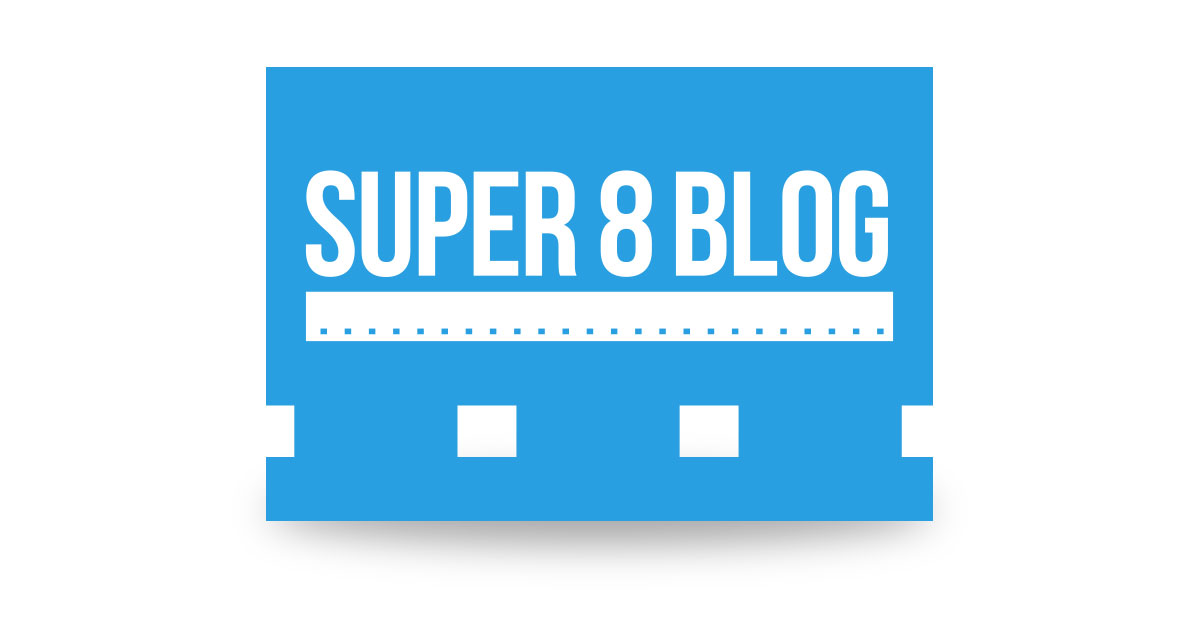
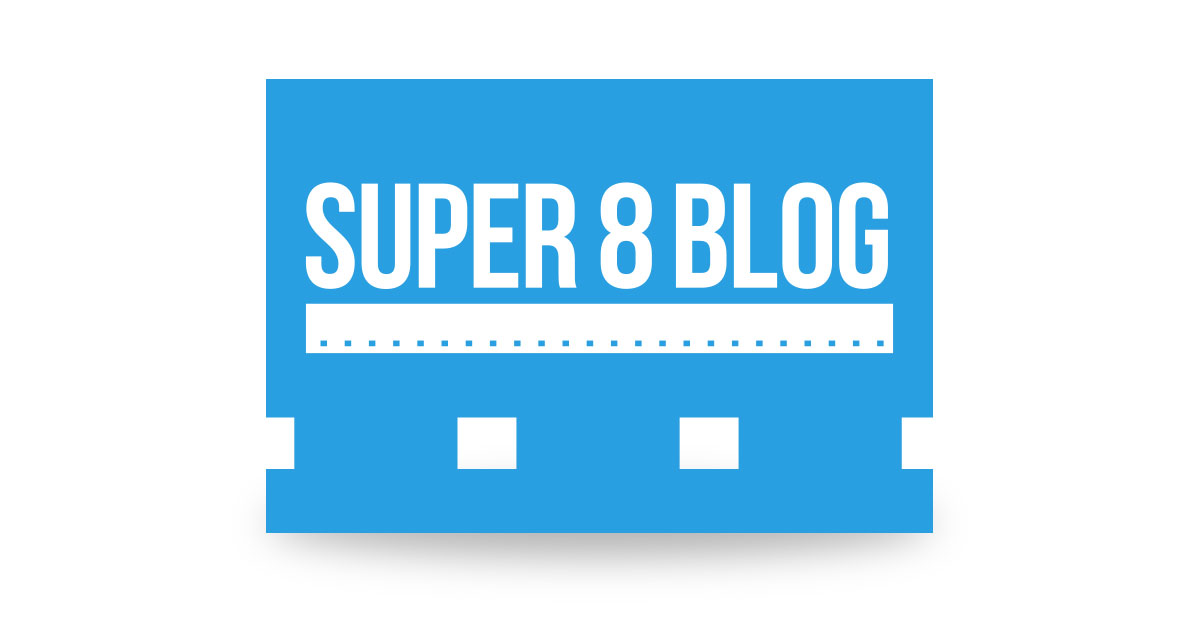
Shared target window size for all share buttons. Tweaked site image.

diff --git a/index.html b/index.html
@@ -14,18 +14,50 @@ title: Home
     <div class="dateline">
       <span class="post-date">{{ post.date | date_to_string }}</span>
       <div class="social">
-        <a class="facebook" href="https://facebook.com/sharer.php?u={{ site.url }}{{ post.url }}" rel="nofollow" target="_blank" title="Share on Facebook">SHARE</a>
+        <a class="facebook" href="https://facebook.com/sharer.php?u={{ site.url }}{{ post.url }}" rel="nofollow" target="_blank" title="Share on Facebook" onclick="window.open(this.href,'targetWindow',
+                                   'toolbar=no,
+                                    location=no,
+                                    status=no,
+                                    menubar=no,
+                                    scrollbars=yes,
+                                    resizable=yes,
+                                    width=600,
+                                    height=400');">SHARE</a>
         /
-        <a class="twitter" href="https://twitter.com/intent/tweet?text={{ post.description }}&url={{ site.url }}{{ post.url }}&via={{ site.twitter_username }}&related={{ site.twitter_username }}" rel="nofollow" target="_blank" title="Share on Twitter">TWEET</a>
+        <a class="twitter" href="https://twitter.com/intent/tweet?text={{ post.description }}&url={{ site.url }}{{ post.url }}&via={{ site.twitter_username }}&related={{ site.twitter_username }}" rel="nofollow" target="_blank" title="Share on Twitter" onclick="window.open(this.href,'targetWindow',
+                                   'toolbar=no,
+                                    location=no,
+                                    status=no,
+                                    menubar=no,
+                                    scrollbars=yes,
+                                    resizable=yes,
+                                    width=600,
+                                    height=400');">TWEET</a>
         /
         <a class="comment" href="{{ site.baseurl }}{{ post.url }}#disqus_thread">Comment</a>
       </div>
     </div>
     {{ post.content }}
     <div class="social-below-post">
-        <a class="facebook" href="https://facebook.com/sharer.php?u={{ site.url }}{{ post.url }}" rel="nofollow" target="_blank" title="Share on Facebook">SHARE</a>
+        <a class="facebook" href="https://facebook.com/sharer.php?u={{ site.url }}{{ post.url }}" rel="nofollow" target="_blank" title="Share on Facebook" onclick="window.open(this.href,'targetWindow',
+                                   'toolbar=no,
+                                    location=no,
+                                    status=no,
+                                    menubar=no,
+                                    scrollbars=yes,
+                                    resizable=yes,
+                                    width=600,
+                                    height=400');">SHARE</a>
         /
-        <a class="twitter" href="https://twitter.com/intent/tweet?text={{ post.description }}&url={{ site.url }}{{ post.url }}&via={{ site.twitter_username }}&related={{ site.twitter_username }}" rel="nofollow" target="_blank" title="Share on Twitter">TWEET</a>
+        <a class="twitter" href="https://twitter.com/intent/tweet?text={{ post.description }}&url={{ site.url }}{{ post.url }}&via={{ site.twitter_username }}&related={{ site.twitter_username }}" rel="nofollow" target="_blank" title="Share on Twitter" onclick="window.open(this.href,'targetWindow',
+                                   'toolbar=no,
+                                    location=no,
+                                    status=no,
+                                    menubar=no,
+                                    scrollbars=yes,
+                                    resizable=yes,
+                                    width=600,
+                                    height=400');">TWEET</a>
         /
         <a class="comment" href="{{ site.baseurl }}{{ post.url }}#disqus_thread">Comment</a>
       </div>

diff --git a/_layouts/post.html b/_layouts/post.html
@@ -6,18 +6,50 @@ layout: default
   <div class="dateline">
     <span class="post-date">{{ page.date | date_to_string }}</span>
     <div class="social">
-    <a class="facebook" href="https://facebook.com/sharer.php?u={{ site.url }}{{ page.url }}" rel="nofollow" target="_blank" title="Share on Facebook">SHARE</a>
+    <a class="facebook" href="https://facebook.com/sharer.php?u={{ site.url }}{{ page.url }}" rel="nofollow" target="_blank" title="Share on Facebook" onclick="window.open(this.href,'targetWindow',
+                                   'toolbar=no,
+                                    location=no,
+                                    status=no,
+                                    menubar=no,
+                                    scrollbars=yes,
+                                    resizable=yes,
+                                    width=600,
+                                    height=400');">SHARE</a>
       /
-      <a class="twitter" href="https://twitter.com/intent/tweet?text={{ page.description }}&url={{ site.url }}{{ page.url }}&via={{ site.twitter_username }}&related={{ site.twitter_username }}" rel="nofollow" target="_blank" title="Share on Twitter">TWEET</a>
+      <a class="twitter" href="https://twitter.com/intent/tweet?text={{ page.description }}&url={{ site.url }}{{ page.url }}&via={{ site.twitter_username }}&related={{ site.twitter_username }}" rel="nofollow" target="_blank" title="Share on Twitter" onclick="window.open(this.href,'targetWindow',
+                                   'toolbar=no,
+                                    location=no,
+                                    status=no,
+                                    menubar=no,
+                                    scrollbars=yes,
+                                    resizable=yes,
+                                    width=600,
+                                    height=400');">TWEET</a>
       /
       <a class="comment" href="#disqus_thread">Comment</a>
     </div>
   </div>
   {{ content }}
 <div class="social-footer">
-  <a class="facebook" href="https://facebook.com/sharer.php?u={{ site.url }}{{ page.url }}" rel="nofollow" target="_blank" title="Share on Facebook">SHARE</a>
+  <a class="facebook" href="https://facebook.com/sharer.php?u={{ site.url }}{{ page.url }}" rel="nofollow" target="_blank" title="Share on Facebook" onclick="window.open(this.href,'targetWindow',
+                                   'toolbar=no,
+                                    location=no,
+                                    status=no,
+                                    menubar=no,
+                                    scrollbars=yes,
+                                    resizable=yes,
+                                    width=600,
+                                    height=400');">SHARE</a>
   /
-  <a class="twitter" href="https://twitter.com/intent/tweet?text={{ page.description }}&url={{ site.url }}{{ page.url }}&via={{ site.twitter_username }}&related={{ site.twitter_username }}" rel="nofollow" target="_blank" title="Share on Twitter">TWEET</a>
+  <a class="twitter" href="https://twitter.com/intent/tweet?text={{ page.description }}&url={{ site.url }}{{ page.url }}&via={{ site.twitter_username }}&related={{ site.twitter_username }}" rel="nofollow" target="_blank" title="Share on Twitter" onclick="window.open(this.href,'targetWindow',
+                                   'toolbar=no,
+                                    location=no,
+                                    status=no,
+                                    menubar=no,
+                                    scrollbars=yes,
+                                    resizable=yes,
+                                    width=600,
+                                    height=400');">TWEET</a>
 </div>
 </div>
 

diff --git a/_layouts/page.html b/_layouts/page.html
@@ -5,7 +5,7 @@ layout: default
 <div class="page">
   <h1 class="page-title">{{ page.title }}</h1>
   <div class="social-page">
-    <a class="facebook" href="https://facebook.com/sharer.php?u={{ site.url }}{{ page.url }}" rel="nofollow" target="_blank" title="Share on Facebook"
+    <a class="facebook" href="https://facebook.com/sharer.php?u={{ site.url }}{{ post.url }}" rel="nofollow" target="_blank" title="Share on Facebook"
     onclick="window.open(this.href,'targetWindow',
                                    'toolbar=no,
                                     location=no,
@@ -16,7 +16,7 @@ layout: default
                                     width=600,
                                     height=400');">SHARE</a>
       /
-      <a class="twitter" href="https://twitter.com/intent/tweet?text={{ page.description }}&url={{ site.url }}{{ page.url }}&via={{ site.twitter_username }}&related={{ site.twitter_username }}" rel="nofollow" target="_blank" title="Share on Twitter"
+      <a class="twitter" href="https://twitter.com/intent/tweet?text={{ page.description }}&url={{ site.url }}{{ post.url }}&via={{ site.twitter_username }}&related={{ site.twitter_username }}" rel="nofollow" target="_blank" title="Share on Twitter"
       onclick="window.open(this.href,'targetWindow',
                                    'toolbar=no,
                                     location=no,

diff --git a/_includes/head.html b/_includes/head.html
@@ -59,7 +59,7 @@
     <meta content="{{ page.date | date_to_xmlschema }}" property="article:published_time">
     <meta content="{{ site.url }}/about/" property="article:author">
   {% endif %}
-  <meta content="{{ site.url }}/{{ site.image }}?123" property="og:image">
+  <meta content="{{ site.url }}/{{ site.image }}?124" property="og:image">
 
   {% if page.categories %}
     {% for category in page.categories limit:1 %}
@@ -80,7 +80,7 @@
   <meta name="twitter:title" content="{% if page.title %}{{ page.title }}{% else %}{{ site.title }}{% endif %}">
   <meta name="twitter:description" content="{% if page.excerpt %}{{ page.excerpt | strip_html | strip_newlines | truncate: 200 }}{% else %}{{ site.description }}{% endif %}">
 {% if page.image %}
-  <meta name="twitter:image" content="{{ site.url }}/{{ site.image }}?123"> 
+  <meta name="twitter:image" content="{{ site.url }}/{{ site.image }}?124"> 
 {% endif %} 
   <!-- end twitter card -->
 
